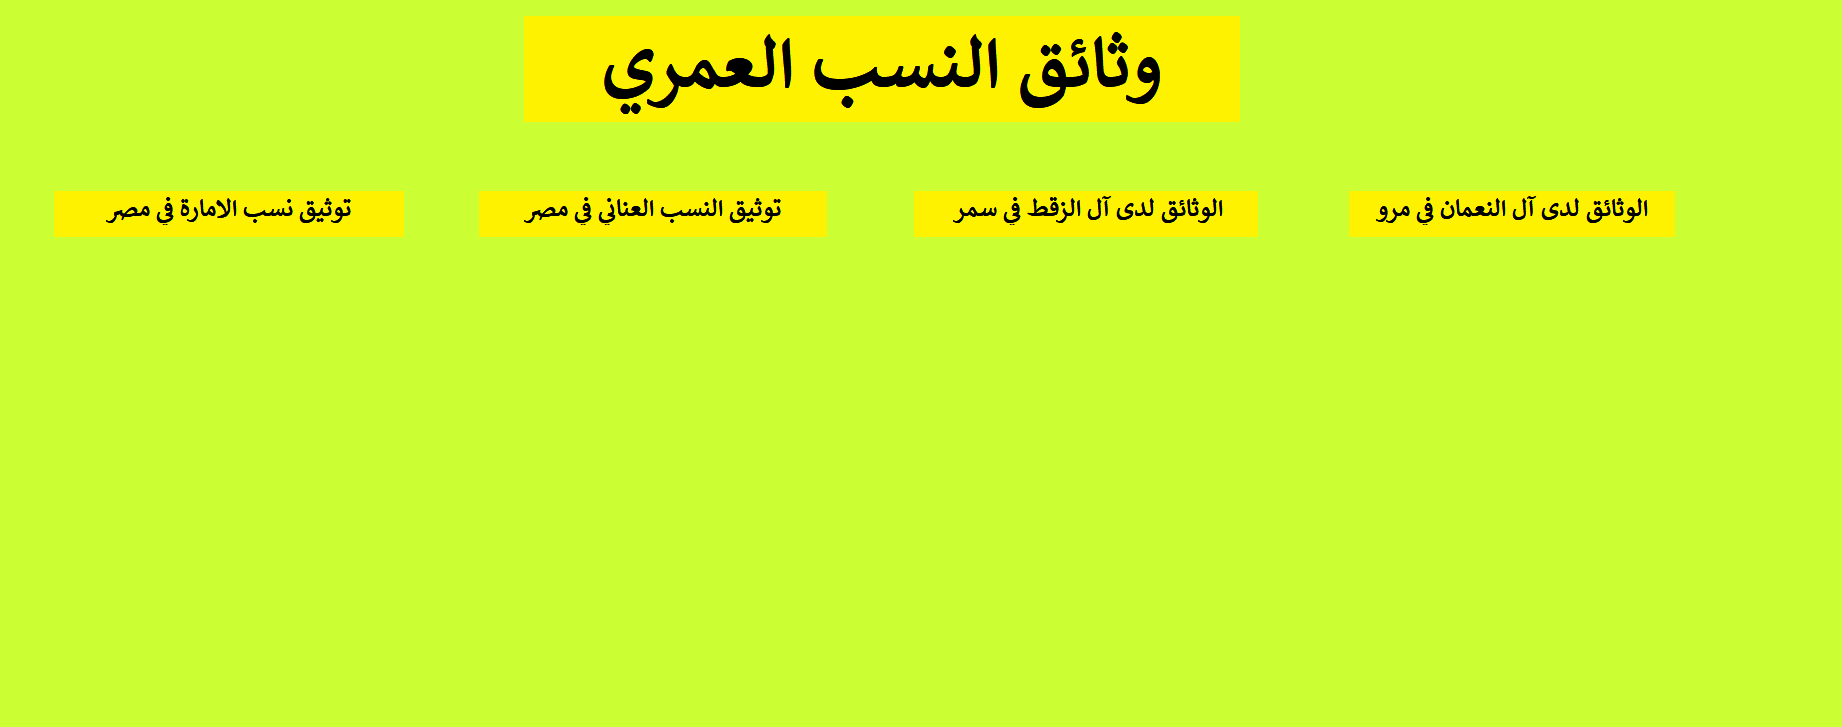
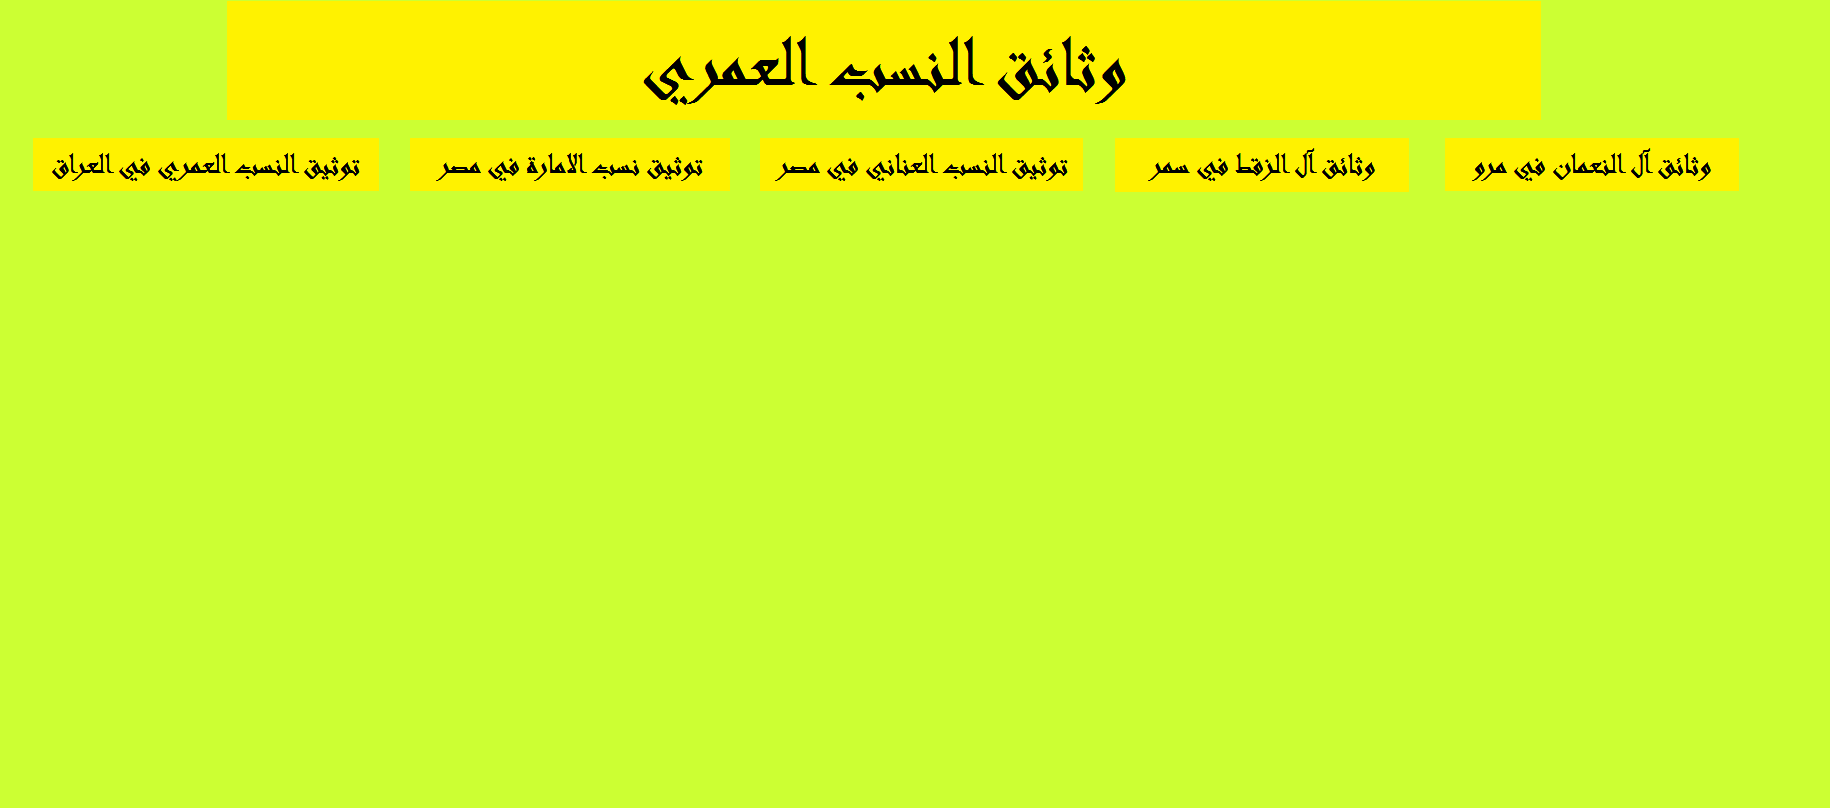
update

Changed region(s): [[0.0, 0.0, 0.9656, 0.3329]]

diff --git a/wathaeg-OmariTree.html b/wathaeg-OmariTree.html
@@ -30,65 +30,72 @@ function FP_getObjectByID(id,o) {//v1.0
 </script>
 </head>
 
-<body style="background-color: #CCFF33" onload="FP_preloadImgs(/*url*/'button2811.gif',/*url*/'buttonA121.gif',/*url*/'button2813.gif',/*url*/'buttonA122.gif',/*url*/'button2815.gif',/*url*/'button2816.gif',/*url*/'button2817.gif',/*url*/'button2818.gif',/*url*/'button2819.gif',/*url*/'buttonA123.gif',/*url*/'buttonF61.gif',/*url*/'button2820.gif',/*url*/'button2821.gif',/*url*/'button2822.gif',/*url*/'button1E14.gif',/*url*/'button1F14.gif',/*url*/'button2823.gif',/*url*/'button2824.gif',/*url*/'button2825.gif',/*url*/'button2826.gif',/*url*/'button2827.gif',/*url*/'button2828.gif',/*url*/'button2D13.gif',/*url*/'button2E27.gif',/*url*/'button2829.gif',/*url*/'button2830.gif',/*url*/'button2831.gif',/*url*/'button3A5.gif',/*url*/'buttonE75.gif',/*url*/'buttonF65.gif',/*url*/'button3575.gif',/*url*/'button3576.gif')">
+<body style="background-color: #CCFF33" onload="FP_preloadImgs(/*url*/'button2811.gif',/*url*/'buttonA121.gif',/*url*/'button2813.gif',/*url*/'buttonA122.gif',/*url*/'button2815.gif',/*url*/'button2816.gif',/*url*/'button2817.gif',/*url*/'button2818.gif',/*url*/'button2819.gif',/*url*/'buttonA123.gif',/*url*/'buttonF61.gif',/*url*/'button2820.gif',/*url*/'button2821.gif',/*url*/'button2822.gif',/*url*/'button1E14.gif',/*url*/'button1F14.gif',/*url*/'button2823.gif',/*url*/'button2824.gif',/*url*/'button2825.gif',/*url*/'button2826.gif',/*url*/'button2827.gif',/*url*/'button2828.gif',/*url*/'button2D13.gif',/*url*/'button2E27.gif',/*url*/'button2829.gif',/*url*/'button2830.gif',/*url*/'button2831.gif',/*url*/'button3A5.gif',/*url*/'buttonE75.gif',/*url*/'buttonF65.gif',/*url*/'button3575.gif',/*url*/'button3576.gif',/*url*/'button3587.gif',/*url*/'buttonA180.gif',/*url*/'button3589.gif',/*url*/'button3590.gif')">
 
-<div id="layer1" style="position: absolute; width: 100px; height: 25px; z-index: 1; left: 1470px; top: 260px">
+<div id="layer1" style="position: absolute; width: 100px; height: 25px; z-index: 1; left: 1475px; top: 220px">
 	<a href="Watheega-Alnasab-Alomari.html">
 	<img id="img1" alt="وثيقة-1" height="22" onmousedown="FP_swapImg(1,0,/*id*/'img1',/*url*/'buttonA121.gif')" onmouseout="FP_swapImg(0,0,/*id*/'img1',/*url*/'button2812.gif')" onmouseover="FP_swapImg(1,0,/*id*/'img1',/*url*/'button2811.gif')" onmouseup="FP_swapImg(0,0,/*id*/'img1',/*url*/'button2811.gif')" src="button2812.gif" style="border: 0" width="110" /><!-- MSComment="ibutton" fp-style="fp-btn: Metal Capsule 2; fp-font-style: Bold; fp-font-size: 8; fp-transparent: 1" fp-title="وثيقة-1" --></a></div>
-<div id="layer2" style="position: absolute; width: 100px; height: 30px; z-index: 2; left: 1470px; top: 300px">
+<div id="layer2" style="position: absolute; width: 100px; height: 30px; z-index: 2; left: 1480px; top: 280px">
 	<a href="watheeget-2.html">
 	<img id="img2" alt="وثيقة-2" height="20" onmousedown="FP_swapImg(1,0,/*id*/'img2',/*url*/'buttonA122.gif')" onmouseout="FP_swapImg(0,0,/*id*/'img2',/*url*/'button2814.gif')" onmouseover="FP_swapImg(1,0,/*id*/'img2',/*url*/'button2813.gif')" onmouseup="FP_swapImg(0,0,/*id*/'img2',/*url*/'button2813.gif')" src="button2814.gif" style="border: 0" width="100" /><!-- MSComment="ibutton" fp-style="fp-btn: Metal Capsule 2; fp-font-style: Bold; fp-font-size: 8; fp-transparent: 1" fp-title="وثيقة-2" --></a></div>
-<div id="layer3" style="position: absolute; width: 100px; height: 35px; z-index: 3; left: 1475px; top: 345px">
+<div id="layer3" style="position: absolute; width: 100px; height: 35px; z-index: 3; left: 1480px; top: 340px">
 	<a href="watheeget-3.html">
 	<img id="img3" alt="وثيقة-3" height="20" onmousedown="FP_swapImg(1,0,/*id*/'img3',/*url*/'button2816.gif')" onmouseout="FP_swapImg(0,0,/*id*/'img3',/*url*/'button2832.gif')" onmouseover="FP_swapImg(1,0,/*id*/'img3',/*url*/'button2815.gif')" onmouseup="FP_swapImg(0,0,/*id*/'img3',/*url*/'button2815.gif')" src="button2832.gif" style="border: 0" width="100" /><!-- MSComment="ibutton" fp-style="fp-btn: Metal Capsule 2; fp-font-style: Bold; fp-font-size: 8; fp-transparent: 1" fp-title="وثيقة-3" --></a></div>
-<div id="layer4" style="position: absolute; width: 100px; height: 40px; z-index: 4; left: 1475px; top: 395px">
+<div id="layer4" style="position: absolute; width: 100px; height: 25px; z-index: 4; left: 1485px; top: 390px">
 	<a href="watheeget-4.html">
 	<img id="img4" alt="وثيقة-4" height="20" onmousedown="FP_swapImg(1,0,/*id*/'img4',/*url*/'button2818.gif')" onmouseout="FP_swapImg(0,0,/*id*/'img4',/*url*/'button2833.gif')" onmouseover="FP_swapImg(1,0,/*id*/'img4',/*url*/'button2817.gif')" onmouseup="FP_swapImg(0,0,/*id*/'img4',/*url*/'button2817.gif')" src="button2833.gif" style="border: 0" width="100" /><!-- MSComment="ibutton" fp-style="fp-btn: Metal Capsule 2; fp-font-style: Bold; fp-font-size: 8; fp-transparent: 1" fp-title="وثيقة-4" --></a></div>
-<div id="layer5" style="position: absolute; width: 100px; height: 30px; z-index: 5; left: 1470px; top: 450px">
+<div id="layer5" style="position: absolute; width: 100px; height: 30px; z-index: 5; left: 1485px; top: 450px">
 	<a href="watheeget-6.html">
 	<img id="img5" alt="وثيقة-5" height="20" onmousedown="FP_swapImg(1,0,/*id*/'img5',/*url*/'buttonA123.gif')" onmouseout="FP_swapImg(0,0,/*id*/'img5',/*url*/'button2834.gif')" onmouseover="FP_swapImg(1,0,/*id*/'img5',/*url*/'button2819.gif')" onmouseup="FP_swapImg(0,0,/*id*/'img5',/*url*/'button2819.gif')" src="button2834.gif" style="border: 0" width="100" /><!-- MSComment="ibutton" fp-style="fp-btn: Metal Capsule 2; fp-font-style: Bold; fp-font-size: 8; fp-transparent: 1" fp-title="وثيقة-5" --></a></div>
-<div id="layer6" style="position: absolute; width: 195px; height: 45px; z-index: 6; left: 1410px; top: 555px">
+<div id="layer6" style="position: absolute; width: 195px; height: 45px; z-index: 6; left: 1455px; top: 570px">
 	<a href="http://www.omaritree.com/book.pdf">
 	<img id="img6" alt="تحميل كتاب النسب العمري" height="38" onmousedown="FP_swapImg(1,0,/*id*/'img6',/*url*/'button2820.gif')" onmouseout="FP_swapImg(0,0,/*id*/'img6',/*url*/'buttonE70.gif')" onmouseover="FP_swapImg(1,0,/*id*/'img6',/*url*/'buttonF61.gif')" onmouseup="FP_swapImg(0,0,/*id*/'img6',/*url*/'buttonF61.gif')" src="buttonE70.gif" style="border: 0" width="190" /><!-- MSComment="ibutton" fp-style="fp-btn: Metal Capsule 2; fp-font-style: Bold; fp-font-size: 8; fp-transparent: 1" fp-title="تحميل كتاب النسب العمري" --></a></div>
-<div id="layer7" style="position: absolute; width: 100px; height: 25px; z-index: 7; left: 1050px; top: 265px">
+<div id="layer7" style="position: absolute; width: 100px; height: 25px; z-index: 7; left: 1160px; top: 215px">
 	<a href="W-Zugut-1.html">
 	<img id="img7" alt="وثيقة-1" height="20" onmousedown="FP_swapImg(1,0,/*id*/'img7',/*url*/'button2822.gif')" onmouseout="FP_swapImg(0,0,/*id*/'img7',/*url*/'button2835.gif')" onmouseover="FP_swapImg(1,0,/*id*/'img7',/*url*/'button2821.gif')" onmouseup="FP_swapImg(0,0,/*id*/'img7',/*url*/'button2821.gif')" src="button2835.gif" style="border: 0" width="100" /><!-- MSComment="ibutton" fp-style="fp-btn: Metal Capsule 2; fp-font-style: Bold; fp-font-size: 8; fp-transparent: 1" fp-title="وثيقة-1" --></a></div>
-<div id="layer8" style="position: absolute; width: 100px; height: 25px; z-index: 8; left: 1050px; top: 310px">
+<div id="layer8" style="position: absolute; width: 100px; height: 25px; z-index: 8; left: 1160px; top: 275px">
 	<a href="W-Zugut-2.html">
 	<img id="img8" alt="وثيقة-2" height="20" onmousedown="FP_swapImg(1,0,/*id*/'img8',/*url*/'button1F14.gif')" onmouseout="FP_swapImg(0,0,/*id*/'img8',/*url*/'button1D15.gif')" onmouseover="FP_swapImg(1,0,/*id*/'img8',/*url*/'button1E14.gif')" onmouseup="FP_swapImg(0,0,/*id*/'img8',/*url*/'button1E14.gif')" src="button1D15.gif" style="border: 0" width="100" /><!-- MSComment="ibutton" fp-style="fp-btn: Metal Capsule 2; fp-font-style: Bold; fp-font-size: 8; fp-transparent: 1" fp-title="وثيقة-2" --></a></div>
-<div id="layer9" style="position: absolute; width: 100px; height: 40px; z-index: 9; left: 1050px; top: 350px">
+<div id="layer9" style="position: absolute; width: 100px; height: 30px; z-index: 9; left: 1160px; top: 335px">
 	<a href="W-Zugut-3.html">
 	<img id="img9" alt="وثيقة-3" height="20" onmousedown="FP_swapImg(1,0,/*id*/'img9',/*url*/'button2824.gif')" onmouseout="FP_swapImg(0,0,/*id*/'img9',/*url*/'button2836.gif')" onmouseover="FP_swapImg(1,0,/*id*/'img9',/*url*/'button2823.gif')" onmouseup="FP_swapImg(0,0,/*id*/'img9',/*url*/'button2823.gif')" src="button2836.gif" style="border: 0" width="100" /><!-- MSComment="ibutton" fp-style="fp-btn: Metal Capsule 2; fp-font-style: Bold; fp-font-size: 8; fp-transparent: 1" fp-title="وثيقة-3" --></a></div>
-<div id="layer10" style="position: absolute; width: 100px; height: 30px; z-index: 10; left: 1050px; top: 400px">
+<div id="layer10" style="position: absolute; width: 100px; height: 30px; z-index: 10; left: 1160px; top: 385px">
 	<a href="W-Zugut-4.html">
 	<img id="img10" alt="وثيقة-4" height="20" onmousedown="FP_swapImg(1,0,/*id*/'img10',/*url*/'button2826.gif')" onmouseout="FP_swapImg(0,0,/*id*/'img10',/*url*/'button2837.gif')" onmouseover="FP_swapImg(1,0,/*id*/'img10',/*url*/'button2825.gif')" onmouseup="FP_swapImg(0,0,/*id*/'img10',/*url*/'button2825.gif')" src="button2837.gif" style="border: 0" width="100" /><!-- MSComment="ibutton" fp-style="fp-btn: Metal Capsule 2; fp-font-style: Bold; fp-font-size: 8; fp-transparent: 1" fp-title="وثيقة-4" --></a></div>
-<div id="layer11" style="position: absolute; width: 100px; height: 45px; z-index: 11; left: 1050px; top: 440px">
+<div id="layer11" style="position: absolute; width: 100px; height: 30px; z-index: 11; left: 1165px; top: 440px">
 	<a href="W-Zugut-5.html">
 	<img id="img11" alt="وثيقة-5" height="20" onmousedown="FP_swapImg(1,0,/*id*/'img11',/*url*/'button2828.gif')" onmouseout="FP_swapImg(0,0,/*id*/'img11',/*url*/'button2838.gif')" onmouseover="FP_swapImg(1,0,/*id*/'img11',/*url*/'button2827.gif')" onmouseup="FP_swapImg(0,0,/*id*/'img11',/*url*/'button2827.gif')" src="button2838.gif" style="border: 0" width="100" /><!-- MSComment="ibutton" fp-style="fp-btn: Metal Capsule 2; fp-font-style: Bold; fp-font-size: 8; fp-transparent: 1" fp-title="وثيقة-5" --></a></div>
-<div id="layer12" style="position: absolute; width: 100px; height: 30px; z-index: 12; left: 1050px; top: 500px">
+<div id="layer12" style="position: absolute; width: 100px; height: 30px; z-index: 12; left: 1165px; top: 500px">
 	<a href="W-Zugut-6.html">
 	<img id="img12" alt="وثيقة-6" height="20" onmousedown="FP_swapImg(1,0,/*id*/'img12',/*url*/'button2E27.gif')" onmouseout="FP_swapImg(0,0,/*id*/'img12',/*url*/'button2C13.gif')" onmouseover="FP_swapImg(1,0,/*id*/'img12',/*url*/'button2D13.gif')" onmouseup="FP_swapImg(0,0,/*id*/'img12',/*url*/'button2D13.gif')" src="button2C13.gif" style="border: 0" width="100" /><!-- MSComment="ibutton" fp-style="fp-btn: Metal Capsule 2; fp-font-style: Bold; fp-font-size: 8; fp-transparent: 1" fp-title="وثيقة-6" --></a></div>
 <div id="layer13" style="position: absolute; width: 100px; height: 35px; z-index: 13; left: 595px; top: 355px">
 	<a href="W-1.html">
 	</a></div>
-<div id="layer14" style="position: absolute; width: 100px; height: 40px; z-index: 14; left: 170px; top: 260px">
+<div id="layer14" style="position: absolute; width: 100px; height: 40px; z-index: 14; left: 470px; top: 215px">
 	<a href="Emarah-Watheege.html">
 	<img id="img14" alt="وثيقة-1" height="20" onmousedown="FP_swapImg(1,0,/*id*/'img14',/*url*/'button3A5.gif')" onmouseout="FP_swapImg(0,0,/*id*/'img14',/*url*/'button2840.gif')" onmouseover="FP_swapImg(1,0,/*id*/'img14',/*url*/'button2831.gif')" onmouseup="FP_swapImg(0,0,/*id*/'img14',/*url*/'button2831.gif')" src="button2840.gif" style="border: 0" width="100" /><!-- MSComment="ibutton" fp-style="fp-btn: Metal Capsule 2; fp-font-style: Bold; fp-font-size: 8; fp-transparent: 1" fp-title="وثيقة-1" --></a></div>
-<div id="layer15" style="position: absolute; width: 115px; height: 35px; z-index: 15; left: 1460px; top: 500px">
+<div id="layer15" style="position: absolute; width: 115px; height: 35px; z-index: 15; left: 1485px; top: 505px">
 	<a href="Faraman-Alnomann.html">
 	<img id="img15" alt="وثيقة-6" height="22" onmousedown="FP_swapImg(1,0,/*id*/'img15',/*url*/'buttonF65.gif')" onmouseout="FP_swapImg(0,0,/*id*/'img15',/*url*/'buttonD103.gif')" onmouseover="FP_swapImg(1,0,/*id*/'img15',/*url*/'buttonE75.gif')" onmouseup="FP_swapImg(0,0,/*id*/'img15',/*url*/'buttonE75.gif')" src="buttonD103.gif" style="border: 0" width="110" /><!-- MSComment="ibutton" fp-style="fp-btn: Metal Capsule 2; fp-font-style: Bold; fp-font-size: 8; fp-transparent: 1" fp-title="وثيقة-6" --></a></div>
 <div id="layer16" style="position: absolute; width: 175px; height: 40px; z-index: 16; left: 450px; top: 360px">
 	</div>
-<div id="layer18" style="position: absolute; width: 120px; height: 40px; z-index: 18; left: 555px; top: 330px">
+<div id="layer18" style="position: absolute; width: 120px; height: 35px; z-index: 18; left: 800px; top: 280px">
 	<a href="W-1.html">
 	<img id="img13" alt="وثيقة-2" height="24" onmousedown="FP_swapImg(1,0,/*id*/'img13',/*url*/'button2830.gif')" onmouseout="FP_swapImg(0,0,/*id*/'img13',/*url*/'button2839.gif')" onmouseover="FP_swapImg(1,0,/*id*/'img13',/*url*/'button2829.gif')" onmouseup="FP_swapImg(0,0,/*id*/'img13',/*url*/'button2829.gif')" src="button2839.gif" style="border: 0" width="120" /><!-- MSComment="ibutton" fp-style="fp-btn: Metal Capsule 2; fp-font-style: Bold; fp-font-size: 8; fp-transparent: 1" fp-title="وثيقة-2" --></a></div>
 <div id="layer19" style="position: absolute; width: 150px; height: 40px; z-index: 19; left: 185px; top: 395px">
 	<a href="steps%20to%20renew%20Omari%20Tree.html">
 	</a></div>
-<div id="layer20" style="position: absolute; width: 125px; height: 45px; z-index: 20; left: 555px; top: 275px">
+<div id="layer20" style="position: absolute; width: 125px; height: 40px; z-index: 20; left: 795px; top: 215px">
 	<a href="Watheege-Alnasab-Alanany.html">
 	<img id="img16" alt="وثيقة-1" height="24" onmousedown="FP_swapImg(1,0,/*id*/'img16',/*url*/'button3576.gif')" onmouseout="FP_swapImg(0,0,/*id*/'img16',/*url*/'button3577.gif')" onmouseover="FP_swapImg(1,0,/*id*/'img16',/*url*/'button3575.gif')" onmouseup="FP_swapImg(0,0,/*id*/'img16',/*url*/'button3575.gif')" src="button3577.gif" style="border: 0" width="120" /><!-- MSComment="ibutton" fp-style="fp-btn: Metal Capsule 2; fp-font-style: Bold; fp-font-size: 8; fp-transparent: 1" fp-title="وثيقة-1" --></a></div>
-<img alt="" height="727" src="wathaeg-OmariTree.png" width="1842" />
+<div id="layer21" style="position: absolute; width: 110px; height: 40px; z-index: 21; left: 120px; top: 280px">
+	<a href="Iraq1973.html">
+	<img id="img17" alt="وثيقة -2" height="22" onmousedown="FP_swapImg(1,0,/*id*/'img17',/*url*/'buttonA180.gif')" onmouseout="FP_swapImg(0,0,/*id*/'img17',/*url*/'button3588.gif')" onmouseover="FP_swapImg(1,0,/*id*/'img17',/*url*/'button3587.gif')" onmouseup="FP_swapImg(0,0,/*id*/'img17',/*url*/'button3587.gif')" src="button3588.gif" style="border: 0" width="108" /><!-- MSComment="ibutton" fp-style="fp-btn: Metal Capsule 2; fp-font-style: Bold; fp-transparent: 1" fp-title="وثيقة -2" --></a></div>
+<div id="layer22" style="position: absolute; width: 115px; height: 40px; z-index: 22; left: 120px; top: 205px">
+	<a href="Iraq-Omari-Tree.html">
+	<img id="img18" alt="وثيقة -1" height="22" onmousedown="FP_swapImg(1,0,/*id*/'img18',/*url*/'button3590.gif')" onmouseout="FP_swapImg(0,0,/*id*/'img18',/*url*/'button3591.gif')" onmouseover="FP_swapImg(1,0,/*id*/'img18',/*url*/'button3589.gif')" onmouseup="FP_swapImg(0,0,/*id*/'img18',/*url*/'button3589.gif')" src="button3591.gif" style="border: 0" width="108" /><!-- MSComment="ibutton" fp-style="fp-btn: Metal Capsule 2; fp-font-style: Bold; fp-transparent: 1" fp-title="وثيقة -1" --></a></div>
+<p><img alt="" height="660" src="wathaeg-OmariTree.png" width="1730" /></p>
+&nbsp;
 
 </body>
 
